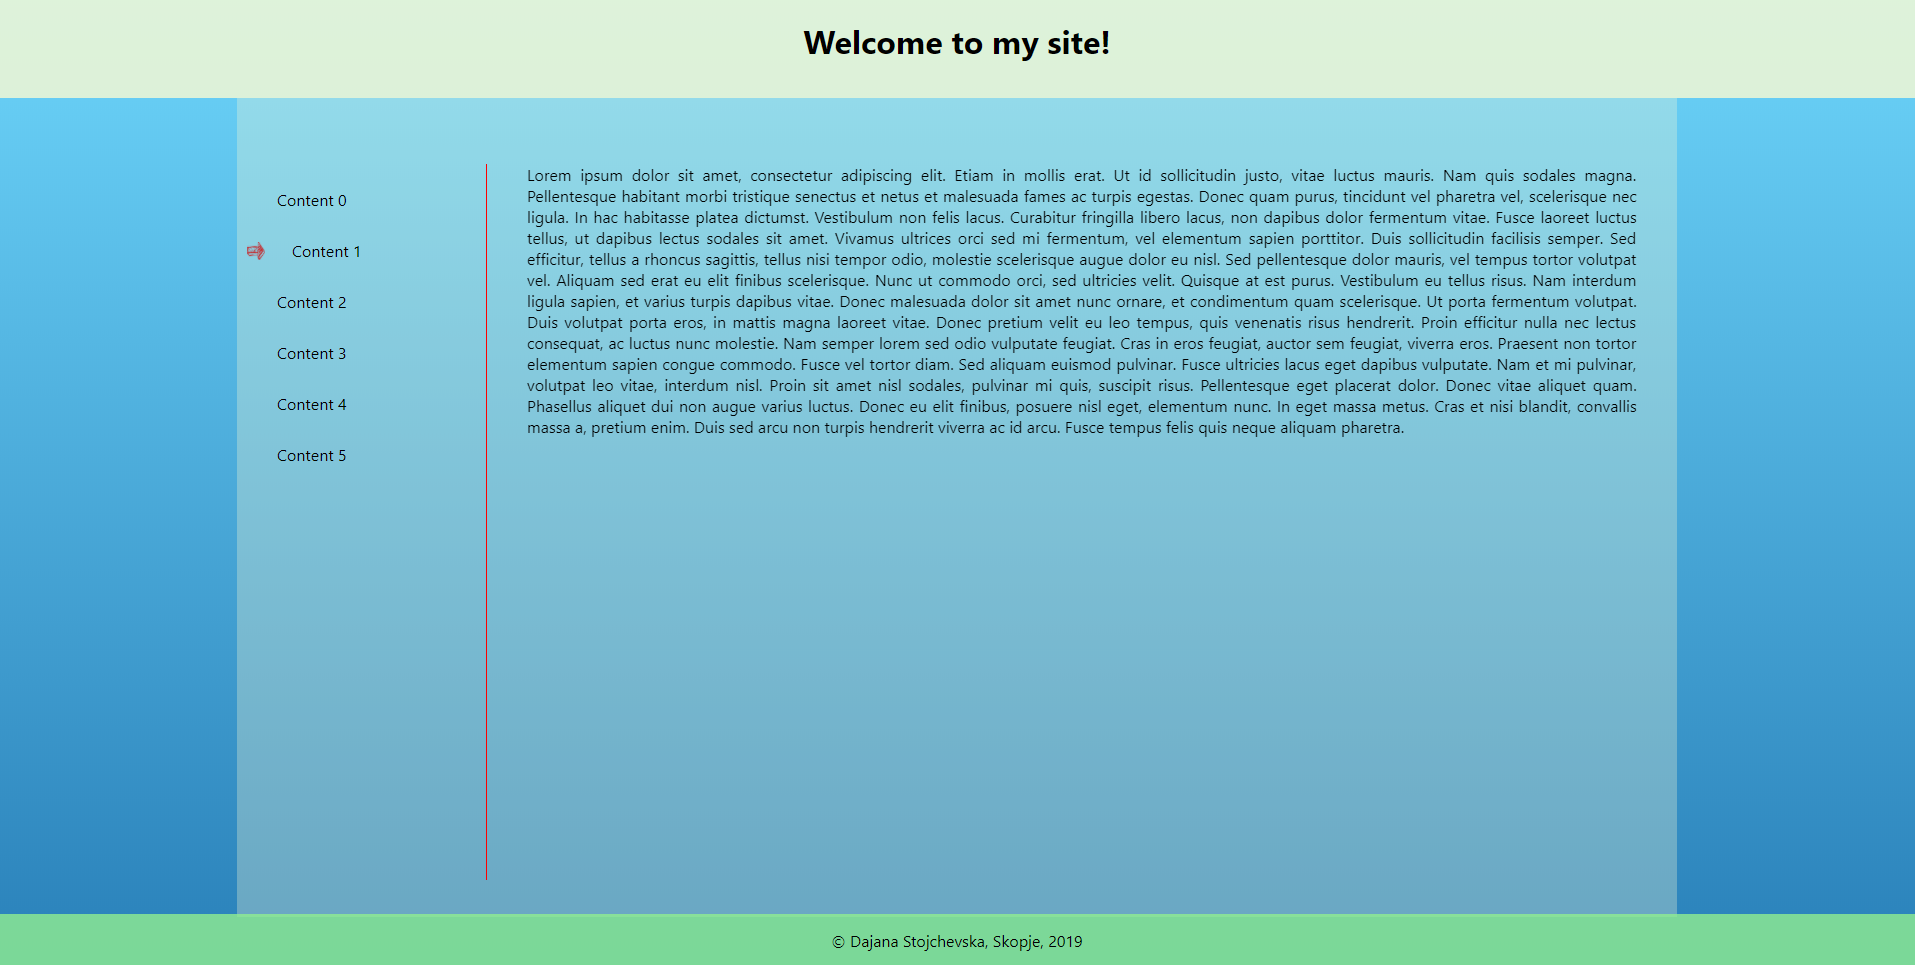
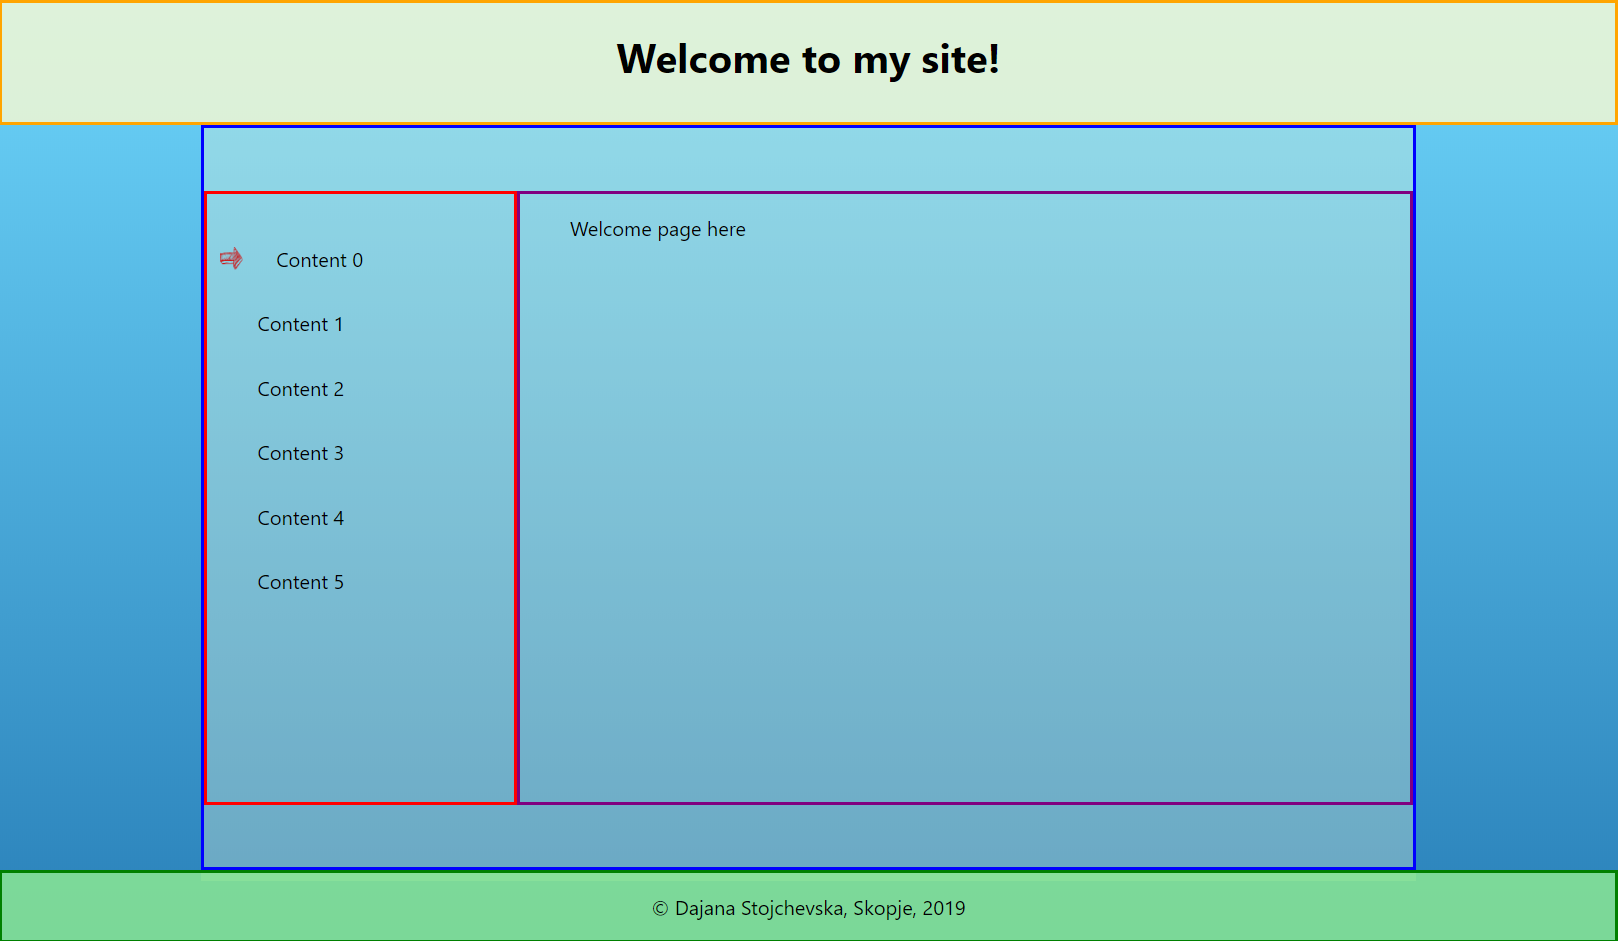
Updates

Changed region(s): [[0.0, 0.0, 1.0, 0.8629], [0.0, 0.8937, 1.0, 1.0], [0.0, 0.9862, 0.0309, 1.0]]

diff --git a/static/js/main.47638a4e.chunk.js b/static/js/main.47638a4e.chunk.js
@@ -1,2 +1,2 @@
 (window.webpackJsonp=window.webpackJsonp||[]).push([[0],[,,,,,,,function(e,t,n){"use strict";n.r(t);var a=n(0),i=n.n(a);t.default=function(){return i.a.createElement("div",{className:"animated fadeIn"},i.a.createElement("p",null,"Lorem ipsum dolor sit amet, consectetur adipiscing elit. Etiam in mollis erat. Ut id sollicitudin justo, vitae luctus mauris. Nam quis sodales magna. Pellentesque habitant morbi tristique senectus et netus et malesuada fames ac turpis egestas. Donec quam purus, tincidunt vel pharetra vel, scelerisque nec ligula. In hac habitasse platea dictumst. Vestibulum non felis lacus. Curabitur fringilla libero lacus, non dapibus dolor fermentum vitae. Fusce laoreet luctus tellus, ut dapibus lectus sodales sit amet. Vivamus ultrices orci sed mi fermentum, vel elementum sapien porttitor. Duis sollicitudin facilisis semper. Sed efficitur, tellus a rhoncus sagittis, tellus nisi tempor odio, molestie scelerisque augue dolor eu nisl. Sed pellentesque dolor mauris, vel tempus tortor volutpat vel. Aliquam sed erat eu elit finibus scelerisque. Nunc ut commodo orci, sed ultricies velit."),i.a.createElement("p",null,"Quisque at est purus. Vestibulum eu tellus risus. Nam interdum ligula sapien, et varius turpis dapibus vitae. Donec malesuada dolor sit amet nunc ornare, et condimentum quam scelerisque. Ut porta fermentum volutpat. Duis volutpat porta eros, in mattis magna laoreet vitae. Donec pretium velit eu leo tempus, quis venenatis risus hendrerit. Proin efficitur nulla nec lectus consequat, ac luctus nunc molestie."),i.a.createElement("p",null,"Nam semper lorem sed odio vulputate feugiat. Cras in eros feugiat, auctor sem feugiat, viverra eros. Praesent non tortor elementum sapien congue commodo. Fusce vel tortor diam. Sed aliquam euismod pulvinar. Fusce ultricies lacus eget dapibus vulputate. Nam et mi pulvinar, volutpat leo vitae, interdum nisl. Proin sit amet nisl sodales, pulvinar mi quis, suscipit risus. Pellentesque eget placerat dolor. Donec vitae aliquet quam. Phasellus aliquet dui non augue varius luctus. Donec eu elit finibus, posuere nisl eget, elementum nunc. In eget massa metus. Cras et nisi blandit, convallis massa a, pretium enim. Duis sed arcu non turpis hendrerit viverra ac id arcu. Fusce tempus felis quis neque aliquam pharetra."))}},function(e,t,n){"use strict";n.r(t);var a=n(0),i=n.n(a);t.default=function(){return i.a.createElement("div",{className:"animated fadeIn"},i.a.createElement("p",null,"Content 02 here"))}},function(e,t,n){"use strict";n.r(t);var a=n(0),i=n.n(a);t.default=function(){return i.a.createElement("div",{className:"animated fadeIn"},i.a.createElement("p",null,"Content 02 here"))}},function(e,t,n){"use strict";n.r(t);var a=n(0),i=n.n(a);t.default=function(){return i.a.createElement("div",{className:"animated fadeIn"},i.a.createElement("p",null,"Content 02 here"))}},function(e,t,n){"use strict";n.r(t);var a=n(0),i=n.n(a);t.default=function(){return i.a.createElement("div",{className:"animated fadeIn"},i.a.createElement("p",null,"Content 02 here"))}},,function(e,t,n){e.exports=n(35)},,,,,,function(e,t,n){},,function(e,t,n){},,function(e,t,n){},,function(e,t,n){},,function(e,t,n){"use strict";n.r(t);var a=n(0),i=n.n(a);t.default=function(){return i.a.createElement("div",{className:"animated fadeIn"},i.a.createElement("p",null,"Welcome page here"))}},function(e,t,n){var a={"./Content01":7,"./Content01.js":7,"./Content02":8,"./Content02.js":8,"./Content03":9,"./Content03.js":9,"./Content04":10,"./Content04.js":10,"./Content05":11,"./Content05.js":11};function i(e){var t=u(e);return n(t)}function u(e){var t=a[e];if(!(t+1)){var n=new Error("Cannot find module '"+e+"'");throw n.code="MODULE_NOT_FOUND",n}return t}i.keys=function(){return Object.keys(a)},i.resolve=u,e.exports=i,i.id=28},function(e,t,n){},,function(e,t,n){},,function(e,t,n){},,function(e,t,n){"use strict";n.r(t);var a=n(0),i=n.n(a),u=n(12),r=n.n(u),s=(n(19),n(1)),l=n(2),o=n(4),c=n(3),m=n(5),d=(n(21),n(23),n(25),[]);d[0]=n(27).default;for(var f=1;f<6;f++)d[f]=n(28)("./Content0"+f).default;var v=d,p=function(e){function t(){return Object(s.a)(this,t),Object(o.a)(this,Object(c.a)(t).apply(this,arguments))}return Object(m.a)(t,e),Object(l.a)(t,[{key:"render",value:function(){var e=this.props,t=e.onMenuItemClick,n=e.activeContentId,a=v.map(function(e,a){return i.a.createElement("li",{key:a,className:n===a?"active item":"item",onClick:function(){return t(a)}},"Content ",a)});return i.a.createElement("div",{id:"menu"},i.a.createElement("ul",null,a))}}]),t}(a.Component),h=(n(29),function(e){function t(){return Object(s.a)(this,t),Object(o.a)(this,Object(c.a)(t).apply(this,arguments))}return Object(m.a)(t,e),Object(l.a)(t,[{key:"render",value:function(){var e=this.props.activeContentId,t=v[e];return i.a.createElement("div",{id:"content"},i.a.createElement(t,null))}}]),t}(a.Component)),b=function(e){function t(e){var n;return Object(s.a)(this,t),(n=Object(o.a)(this,Object(c.a)(t).call(this,e))).onMenuItemClick=function(e){return n.setState({activeContentId:e})},n.state={activeContentId:0},n}return Object(m.a)(t,e),Object(l.a)(t,[{key:"render",value:function(){return i.a.createElement("div",{id:"main"},i.a.createElement(p,{onMenuItemClick:this.onMenuItemClick,activeContentId:this.state.activeContentId}),i.a.createElement(h,{activeContentId:this.state.activeContentId}))}}]),t}(a.Component),j=(n(31),function(e){function t(){return Object(s.a)(this,t),Object(o.a)(this,Object(c.a)(t).apply(this,arguments))}return Object(m.a)(t,e),Object(l.a)(t,[{key:"render",value:function(){return i.a.createElement("div",{id:"header"},i.a.createElement("h1",null,"Welcome to my site!"))}}]),t}(a.Component)),C=(n(33),function(e){function t(){return Object(s.a)(this,t),Object(o.a)(this,Object(c.a)(t).apply(this,arguments))}return Object(m.a)(t,e),Object(l.a)(t,[{key:"render",value:function(){return i.a.createElement("div",{id:"footer"},i.a.createElement("p",null,"\xa9 Dajana Stojchevska, Skopje, 2019"))}}]),t}(a.Component)),E=function(e){function t(){return Object(s.a)(this,t),Object(o.a)(this,Object(c.a)(t).apply(this,arguments))}return Object(m.a)(t,e),Object(l.a)(t,[{key:"render",value:function(){return i.a.createElement("div",{id:"all"},i.a.createElement("h2",{id:"error"},"Please visit this site from a device with a larger screen."),i.a.createElement(j,null),i.a.createElement(b,null),i.a.createElement(C,null))}}]),t}(a.Component);Boolean("localhost"===window.location.hostname||"[::1]"===window.location.hostname||window.location.hostname.match(/^127(?:\.(?:25[0-5]|2[0-4][0-9]|[01]?[0-9][0-9]?)){3}$/));r.a.render(i.a.createElement(E,null),document.getElementById("root")),"serviceWorker"in navigator&&navigator.serviceWorker.ready.then(function(e){e.unregister()})}],[[13,2,1]]]);
-//# sourceMappingURL=main.784d5637.chunk.js.map
+//# sourceMappingURL=main.47638a4e.chunk.js.map

diff --git a/index.html b/index.html
@@ -1,1 +1,1 @@
-<!doctype html><html lang="en"><head><meta charset="utf-8"/><link rel="shortcut icon" href="/Static-Content-Website/favicon.ico"/><link rel="stylesheet" href="https://cdnjs.cloudflare.com/ajax/libs/animate.css/3.7.0/animate.min.css"><meta name="viewport" content="width=device-width,initial-scale=1,shrink-to-fit=no"/><meta name="theme-color" content="#000000"/><link rel="manifest" href="/Static-Content-Website/manifest.json"/><title>React App</title><link href="/Static-Content-Website/static/css/main.39fe19c1.chunk.css" rel="stylesheet"></head><body><noscript>You need to enable JavaScript to run this app.</noscript><div id="root"></div><script>!function(l){function e(e){for(var t,r,n=e[0],o=e[1],u=e[2],i=0,f=[];i<n.length;i++)r=n[i],c[r]&&f.push(c[r][0]),c[r]=0;for(t in o)Object.prototype.hasOwnProperty.call(o,t)&&(l[t]=o[t]);for(s&&s(e);f.length;)f.shift()();return p.push.apply(p,u||[]),a()}function a(){for(var e,t=0;t<p.length;t++){for(var r=p[t],n=!0,o=1;o<r.length;o++){var u=r[o];0!==c[u]&&(n=!1)}n&&(p.splice(t--,1),e=i(i.s=r[0]))}return e}var r={},c={2:0},p=[];function i(e){if(r[e])return r[e].exports;var t=r[e]={i:e,l:!1,exports:{}};return l[e].call(t.exports,t,t.exports,i),t.l=!0,t.exports}i.m=l,i.c=r,i.d=function(e,t,r){i.o(e,t)||Object.defineProperty(e,t,{enumerable:!0,get:r})},i.r=function(e){"undefined"!=typeof Symbol&&Symbol.toStringTag&&Object.defineProperty(e,Symbol.toStringTag,{value:"Module"}),Object.defineProperty(e,"__esModule",{value:!0})},i.t=function(t,e){if(1&e&&(t=i(t)),8&e)return t;if(4&e&&"object"==typeof t&&t&&t.__esModule)return t;var r=Object.create(null);if(i.r(r),Object.defineProperty(r,"default",{enumerable:!0,value:t}),2&e&&"string"!=typeof t)for(var n in t)i.d(r,n,function(e){return t[e]}.bind(null,n));return r},i.n=function(e){var t=e&&e.__esModule?function(){return e.default}:function(){return e};return i.d(t,"a",t),t},i.o=function(e,t){return Object.prototype.hasOwnProperty.call(e,t)},i.p="/Static-Content-Website/";var t=window.webpackJsonp=window.webpackJsonp||[],n=t.push.bind(t);t.push=e,t=t.slice();for(var o=0;o<t.length;o++)e(t[o]);var s=n;a()}([])</script><script src="/Static-Content-Website/static/js/1.2021683b.chunk.js"></script><script src="/Static-Content-Website/static/js/main.784d5637.chunk.js"></script></body></html>
+<!doctype html><html lang="en"><head><meta charset="utf-8"/><link rel="shortcut icon" href="/Static-Content-Website/favicon.ico"/><link rel="stylesheet" href="https://cdnjs.cloudflare.com/ajax/libs/animate.css/3.7.0/animate.min.css"><meta name="viewport" content="width=device-width,initial-scale=1,shrink-to-fit=no"/><meta name="theme-color" content="#000000"/><link rel="manifest" href="/Static-Content-Website/manifest.json"/><title>React App</title><link href="/Static-Content-Website/static/css/main.ef664383.chunk.css" rel="stylesheet"></head><body><noscript>You need to enable JavaScript to run this app.</noscript><div id="root"></div><script>!function(l){function e(e){for(var t,r,n=e[0],o=e[1],u=e[2],i=0,f=[];i<n.length;i++)r=n[i],c[r]&&f.push(c[r][0]),c[r]=0;for(t in o)Object.prototype.hasOwnProperty.call(o,t)&&(l[t]=o[t]);for(s&&s(e);f.length;)f.shift()();return p.push.apply(p,u||[]),a()}function a(){for(var e,t=0;t<p.length;t++){for(var r=p[t],n=!0,o=1;o<r.length;o++){var u=r[o];0!==c[u]&&(n=!1)}n&&(p.splice(t--,1),e=i(i.s=r[0]))}return e}var r={},c={2:0},p=[];function i(e){if(r[e])return r[e].exports;var t=r[e]={i:e,l:!1,exports:{}};return l[e].call(t.exports,t,t.exports,i),t.l=!0,t.exports}i.m=l,i.c=r,i.d=function(e,t,r){i.o(e,t)||Object.defineProperty(e,t,{enumerable:!0,get:r})},i.r=function(e){"undefined"!=typeof Symbol&&Symbol.toStringTag&&Object.defineProperty(e,Symbol.toStringTag,{value:"Module"}),Object.defineProperty(e,"__esModule",{value:!0})},i.t=function(t,e){if(1&e&&(t=i(t)),8&e)return t;if(4&e&&"object"==typeof t&&t&&t.__esModule)return t;var r=Object.create(null);if(i.r(r),Object.defineProperty(r,"default",{enumerable:!0,value:t}),2&e&&"string"!=typeof t)for(var n in t)i.d(r,n,function(e){return t[e]}.bind(null,n));return r},i.n=function(e){var t=e&&e.__esModule?function(){return e.default}:function(){return e};return i.d(t,"a",t),t},i.o=function(e,t){return Object.prototype.hasOwnProperty.call(e,t)},i.p="/Static-Content-Website/";var t=window.webpackJsonp=window.webpackJsonp||[],n=t.push.bind(t);t.push=e,t=t.slice();for(var o=0;o<t.length;o++)e(t[o]);var s=n;a()}([])</script><script src="/Static-Content-Website/static/js/1.2021683b.chunk.js"></script><script src="/Static-Content-Website/static/js/main.47638a4e.chunk.js"></script></body></html>

diff --git a/static/css/main.ef664383.chunk.css b/static/css/main.ef664383.chunk.css
@@ -1,0 +1,2 @@
+body{margin:0;padding:0;font-family:-apple-system,BlinkMacSystemFont,Segoe UI,Roboto,Oxygen,Ubuntu,Cantarell,Fira Sans,Droid Sans,Helvetica Neue,sans-serif;-webkit-font-smoothing:antialiased;-moz-osx-font-smoothing:grayscale}code{font-family:source-code-pro,Menlo,Monaco,Consolas,Courier New,monospace}*{box-sizing:border-box}body{background-image:linear-gradient(180deg,#6dd5fa,purple);height:100vh}::-webkit-scrollbar{width:1em}::-webkit-scrollbar-track{background:linear-gradient(90deg,#201c29,#201c29 1px,#100e17 0,#100e17)}::-webkit-scrollbar-thumb{background:linear-gradient(180deg,#ff8a00,#da1b60);border-radius:30px;box-shadow:inset 2px 2px 2px hsla(0,0%,100%,.25),inset -2px -2px 2px rgba(0,0,0,.25)}::selection{background:#9c27b0;color:#fff}::-moz-selection{background:#9c27b0;color:#fff}#all,#root{height:100%}#all{display:flex;flex-direction:column}#error{display:none}@media only screen and (max-width:540px){*{display:none}#error,#root,body,html{display:block;color:#f08080;background:#000}}#main{flex:1 1;display:flex;height:100%;padding:50px 0}#main,#main:after{width:75%;max-width:1500px;margin:0 auto}#main:after{position:absolute;background-color:#fafad2;opacity:.3;content:"";top:100px;left:0;bottom:53px;right:0;z-index:-1}@media only screen and (max-width:540px){#main:after{display:none}}#menu{flex:0 0 250px}#menu .item{cursor:pointer;font-size:1em;padding:15px 30px;transition:all .25s}#menu .item:hover{padding:15px 45px;background-color:hsla(0,0%,96.5%,.2)}ul{height:100%;list-style-type:none;padding:10px;border-right:thin solid #8b0000;overflow-y:auto}.li:active,li:hover{color:#8b0000}.active{background:url(/Static-Content-Website/static/media/arrow.a71a8e79.png) no-repeat 0;background-size:18px 18px;padding-left:45px!important}#content{flex:1 1;font-size:1em;padding:0 40px;text-align:justify;overflow-y:auto}code{background:linear-gradient(90deg,#fce4ed,#ffe8cc)}#header{flex:0 0 100px;background-color:rgba(211,234,247,.6)}#footer,#header{text-align:center}#footer{color:#add8e6;flex:0 0 50px;background-color:rgba(106,26,102,.6)}
+/*# sourceMappingURL=main.ef664383.chunk.css.map */

diff --git a/precache-manifest.37c05ac85a331881a9543c7f99e6849c.js b/precache-manifest.37c05ac85a331881a9543c7f99e6849c.js
@@ -8,19 +8,19 @@ self.__precacheManifest = [
     "url": "/Static-Content-Website/static/js/runtime~main.7e2d34ae.js"
   },
   {
-    "revision": "784d563725b1e8253e25",
-    "url": "/Static-Content-Website/static/js/main.784d5637.chunk.js"
+    "revision": "47638a4e606667263503",
+    "url": "/Static-Content-Website/static/js/main.47638a4e.chunk.js"
   },
   {
     "revision": "2021683b3e8f319ee96b",
     "url": "/Static-Content-Website/static/js/1.2021683b.chunk.js"
   },
   {
-    "revision": "784d563725b1e8253e25",
-    "url": "/Static-Content-Website/static/css/main.39fe19c1.chunk.css"
+    "revision": "47638a4e606667263503",
+    "url": "/Static-Content-Website/static/css/main.ef664383.chunk.css"
   },
   {
-    "revision": "1d9fb81aa92cdc83d722d84debe3c888",
+    "revision": "96b0ef4d439cb12f1164233f187e3a74",
     "url": "/Static-Content-Website/index.html"
   }
 ];

diff --git a/service-worker.js b/service-worker.js
@@ -14,7 +14,7 @@
 importScripts("https://storage.googleapis.com/workbox-cdn/releases/3.6.3/workbox-sw.js");
 
 importScripts(
-  "/Static-Content-Website/precache-manifest.635af428275272f8fe2cd551885fbc16.js"
+  "/Static-Content-Website/precache-manifest.37c05ac85a331881a9543c7f99e6849c.js"
 );
 
 workbox.clientsClaim();
